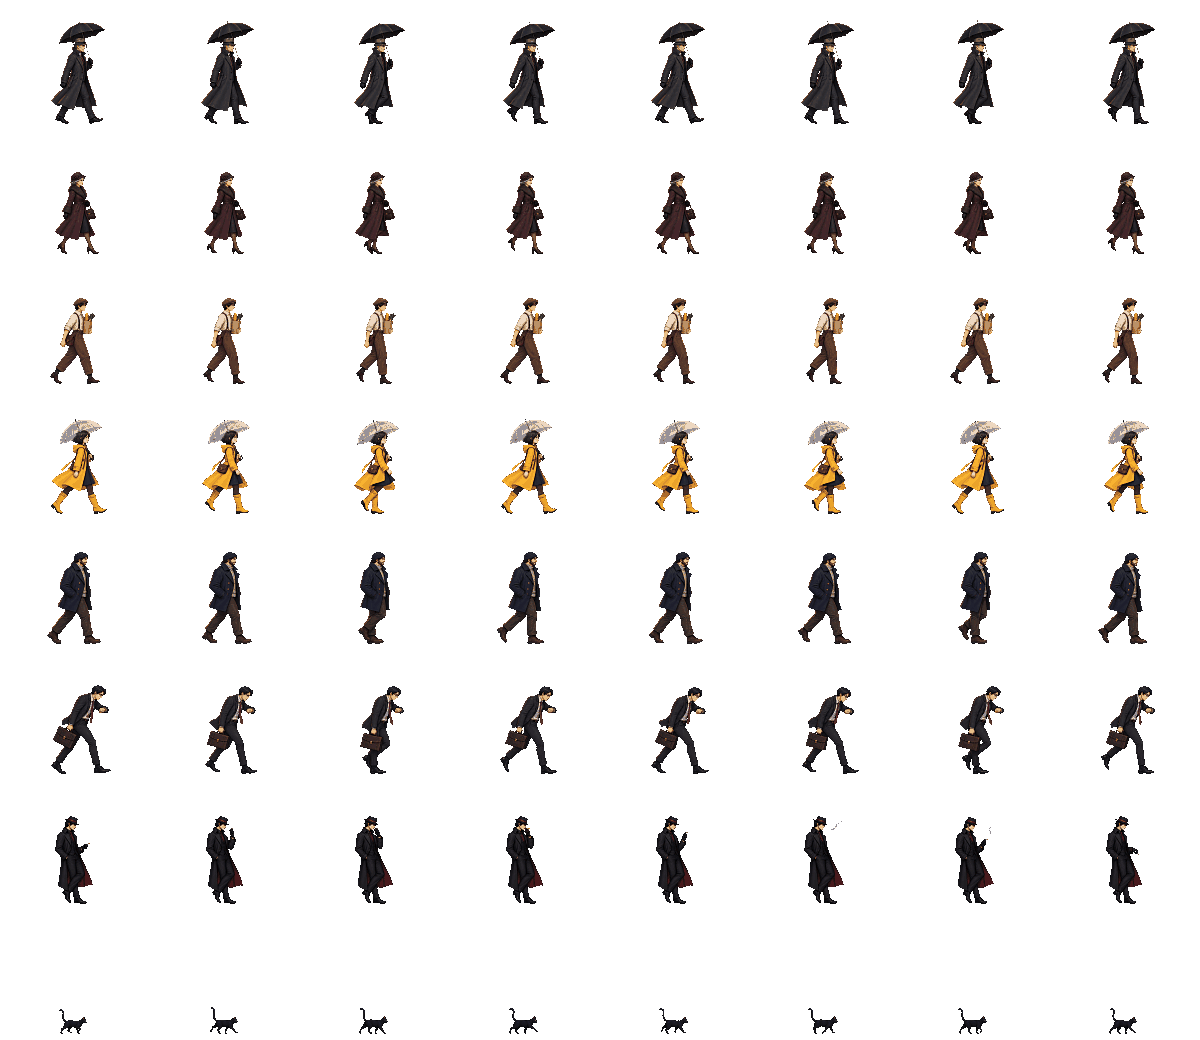
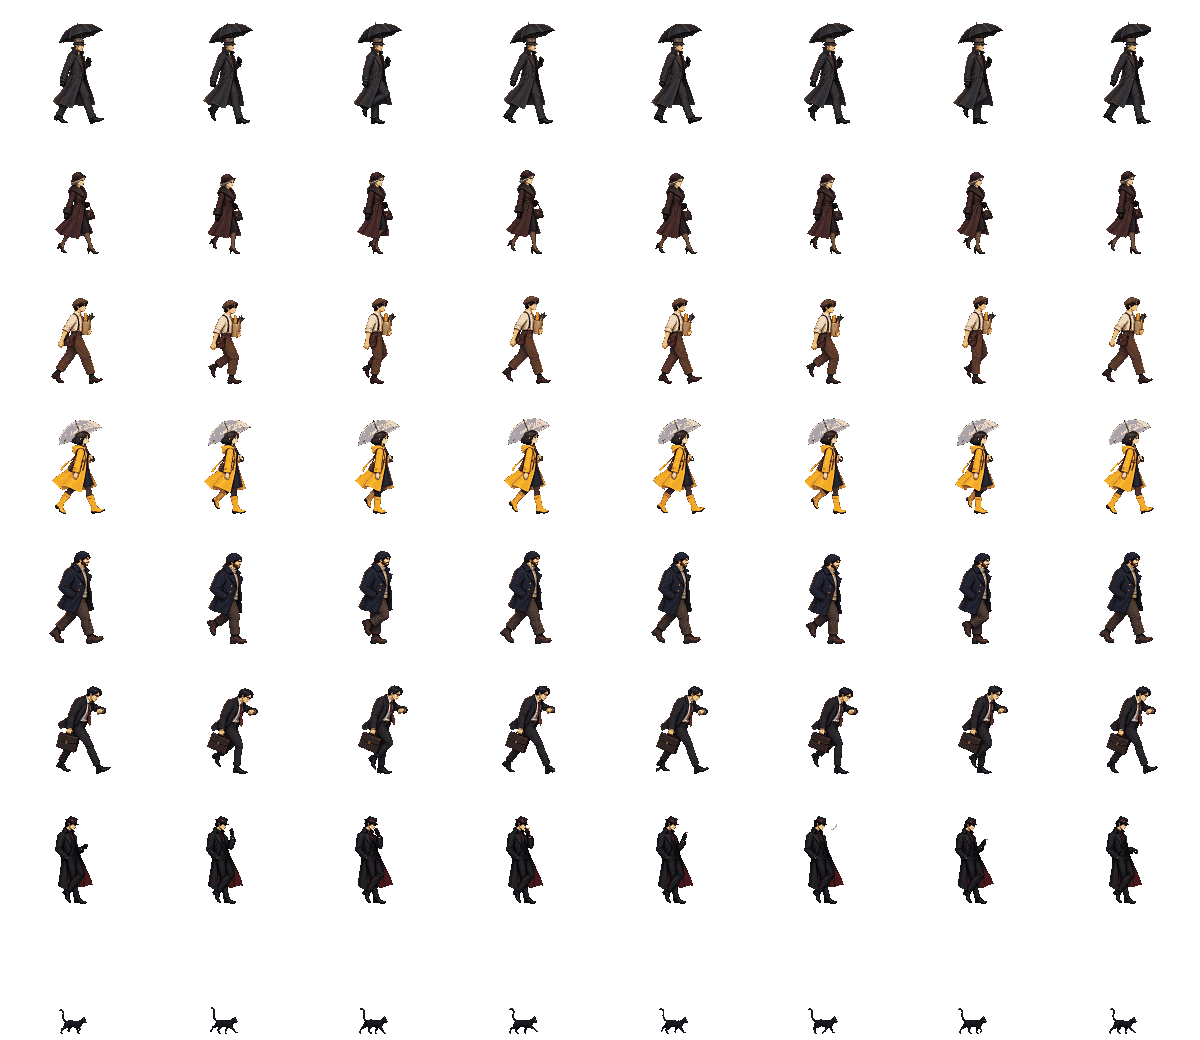
Give pedestrians real walk cycles
The first NPC sheets repeated one scissor stride: the same leg stayed in
front, so walkers slid along the pavement. Each walker now has its own
8-frame sheet with contact, down, passing and up frames for each leg,
drawn from its old frame with Vela's walk as the gait reference.

- Strides re-measured from the contact frames; cadence raised to about
  Vela's (the old one was near half speed).
- The slicer splits two figures that touch, and the atlas drops the
  specks the cut leaves behind.

diff --git a/src/game/crowd.ts b/src/game/crowd.ts
@@ -9,10 +9,12 @@ const META = npcMeta as { cell: number[]; anchor: number[]; cols: number; chars:
 const [CW, CH] = META.cell;
 const [AX, AY] = META.anchor;
 
-// walking speed (px/s) and stride of one full cycle (px) per character, measured from their gait
+// walking speed (px/s) and stride of one full cycle (px) per character. The cycle is two steps,
+// measured from the contact frames of the walk sheets; the speed sets a cadence near Vela's
+// 0.74 cycles/s (fur lady: short quick steps; suit: hurried; docker: heavy and slow)
 const GAIT: Record<string, { speed: number; cycle: number }> = {
-  umbrella_man: { speed: 38, cycle: 74 }, fur_lady: { speed: 28, cycle: 58 }, grocer: { speed: 44, cycle: 76 },
-  raincoat: { speed: 46, cycle: 70 }, docker: { speed: 36, cycle: 78 }, suit: { speed: 62, cycle: 84 }, cat: { speed: 48, cycle: 30 },
+  umbrella_man: { speed: 53, cycle: 78 }, fur_lady: { speed: 45, cycle: 56 }, grocer: { speed: 60, cycle: 70 },
+  raincoat: { speed: 54, cycle: 64 }, docker: { speed: 50, cycle: 72 }, suit: { speed: 72, cycle: 76 }, cat: { speed: 48, cycle: 30 },
 };
 
 interface Ped {

diff --git a/tools/npc_atlas.py b/tools/npc_atlas.py
@@ -12,14 +12,16 @@ from atlas import slice_sheet, SRC, ROOT
 
 CELL_W, CELL_H = 150, 130
 AX, AY = 75, 124
-# (sheet, row) -> character id and spawn tags
+# (sheet, row) -> character id and spawn tags.
+# Walkers use one-row walk sheets (walk_<id>.png) drawn with explicit contact/down/passing/up
+# frames per leg: the first 2x8 sheets repeated one scissor stride, so the feet never swapped.
 CHARS = [
-    ("npc_a.png", 0, "umbrella_man", ["wet"]),
-    ("npc_a.png", 1, "fur_lady", []),
-    ("npc_b.png", 0, "grocer", []),
-    ("npc_b.png", 1, "raincoat", ["wet"]),
-    ("npc_c.png", 0, "docker", []),
-    ("npc_c.png", 1, "suit", []),
+    ("walk_umbrella_man.png", 0, "umbrella_man", ["wet"]),
+    ("walk_fur_lady.png", 0, "fur_lady", []),
+    ("walk_grocer.png", 0, "grocer", []),
+    ("walk_raincoat.png", 0, "raincoat", ["wet"]),
+    ("walk_docker.png", 0, "docker", []),
+    ("walk_suit.png", 0, "suit", []),
     ("npc_d.png", 0, "smoker", ["idle"]),
     ("npc_d.png", 1, "cat", ["cat"]),
 ]
@@ -52,7 +54,7 @@ def main():
     sheets = {}
     for sheet, *_ in CHARS:
         if sheet not in sheets:
-            sheets[sheet] = slice_sheet(SRC / sheet, [8, 8])
+            sheets[sheet] = slice_sheet(SRC / sheet, [8] if sheet.startswith("walk_") else [8, 8])
             print(sheet, len(sheets[sheet]), "frames")
     order, meta = [], {"cell": [CELL_W, CELL_H], "anchor": [AX, AY], "chars": {}}
     for sheet, row, cid, tags in CHARS:
@@ -73,6 +75,13 @@ def main():
         cell.paste(small, (round(AX - hx), AY - small.height), small)
         atlas.alpha_composite(cell, (cx, cy))
     alpha = atlas.getchannel("A").point(lambda v: 255 if v >= 110 else 0)
+    # drop specks left behind where touching figures were cut apart
+    from scipy import ndimage
+    solid = np.asarray(alpha) > 0
+    lab, n = ndimage.label(solid)
+    sizes = ndimage.sum(solid, lab, range(1, n + 1))
+    specks = np.isin(lab, np.where(sizes < 4)[0] + 1)
+    alpha = Image.fromarray(np.where(specks, 0, np.asarray(alpha)).astype(np.uint8), "L")
     rgb = atlas.convert("RGB").filter(ImageFilter.UnsharpMask(radius=1.0, percent=70, threshold=2))
     q = rgb.quantize(colors=64, method=Image.Quantize.MEDIANCUT, dither=Image.Dither.NONE).convert("RGBA")
     q.putalpha(alpha)

diff --git a/tools/atlas.py b/tools/atlas.py
@@ -74,6 +74,18 @@ def slice_sheet(path, rows):
         lab, n = ndimage.label(band)
         sizes = ndimage.sum(band, lab, range(1, n + 1))
         order = np.argsort(sizes)[::-1]
+        # two figures that touch (a briefcase against the next frame's shoe) form one blob about
+        # twice the usual size: cut it at its thinnest column in the middle third, then relabel
+        while len(order) >= count and sizes[order[0]] > 1.6 * np.median(sizes[order[1:count]]):
+            k = order[0] + 1
+            cols = np.where((lab == k).any(axis=0))[0]
+            x0, x1 = cols[0] + len(cols) // 3, cols[0] + 2 * len(cols) // 3
+            cut = x0 + int(np.argmin((lab[:, x0:x1] == k).sum(axis=0)))
+            band = band.copy()
+            band[:, cut] = False
+            lab, n = ndimage.label(band)
+            sizes = ndimage.sum(band, lab, range(1, n + 1))
+            order = np.argsort(sizes)[::-1]
         big = sorted(order[:count] + 1, key=lambda k: ndimage.center_of_mass(band, lab, k)[1])
         cents = [ndimage.center_of_mass(band, lab, k)[1] for k in big]
         owner = np.zeros(n + 1, int)
